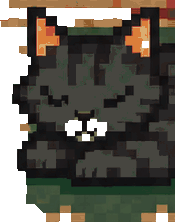
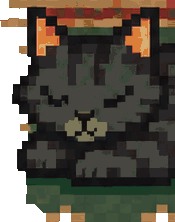
Brighter fuller fire, fix tabby face cut, Cozy title

Changed region(s): [[0.2571, 0.027, 0.7714, 0.1351], [0.3714, 0.5135, 0.6286, 0.6486], [0.8, 0.1622, 0.8571, 0.2162]]

diff --git a/index.html b/index.html
@@ -1,10 +1,10 @@
-<!doctype html><html lang="en"><head><meta charset="utf-8"><meta name="viewport" content="width=device-width,initial-scale=1"><title>Cosy Xmas Cats</title>
+<!doctype html><html lang="en"><head><meta charset="utf-8"><meta name="viewport" content="width=device-width,initial-scale=1"><title>Cozy Xmas Cats</title>
 <style>
 html,body{margin:0;height:100%;background:#0d0a0a;overflow:hidden}
 .s{position:absolute;left:50%;top:50%;transform:translate(-50%,-50%);width:max(100vw,177.78vh);height:max(56.25vw,100vh);background:url(bg.png) 0 0/100% 100%;image-rendering:pixelated;overflow:hidden}
 @media (max-aspect-ratio:4/3){.s{width:min(100vw,177.78vh);height:min(56.25vw,100vh)}}
 .s>*{position:absolute;pointer-events:none;image-rendering:pixelated}
-#fire{left:38.896%;top:33.094%;width:21.983%;height:28.708%;opacity:.92;-webkit-mask-image:linear-gradient(90deg,transparent,#000 12%,#000 88%,transparent);mask-image:linear-gradient(90deg,transparent,#000 12%,#000 88%,transparent)}
+#fire{left:38.896%;top:33.094%;width:21.983%;height:28.708%;opacity:.9;mix-blend-mode:screen;-webkit-mask-image:linear-gradient(90deg,transparent,#000 12%,#000 88%,transparent);mask-image:linear-gradient(90deg,transparent,#000 12%,#000 88%,transparent)}
 .front{z-index:2}.ttail,.tbody,.ktail,.kbody,.khead{z-index:3}
 .front{left:38.896%;top:43.062%;width:21.983%;height:18.740%;transform-origin:50% 100%;animation:none}
 .ttail{left:48.362%;top:62.121%;width:4.666%;height:9.250%;transform-origin:47.1% 0.9%;animation:sway 7s ease-in-out infinite}
@@ -36,9 +36,9 @@ html,body{margin:0;height:100%;background:#0d0a0a;overflow:hidden}
 (function(){const c=document.getElementById('fire'),x=c.getContext('2d'),w=96,h=72,P=[[0,0,0,0]];
 const st=[[40,8,4],[90,16,6],[140,30,8],[180,50,10],[210,80,14],[235,115,20],[248,150,30],[255,185,50],[255,215,90],[255,240,160],[255,252,220]];
 for(let i=1;i<37;i++){const f=i/36*(st.length-1),a=Math.floor(f),b=Math.min(a+1,st.length-1),t=f-a;P.push([0,1,2].map(k=>st[a][k]+(st[b][k]-st[a][k])*t).concat([Math.min(255,i*22)]))}
-const F=new Uint8Array(w*h);for(let i=0;i<w;i++){const d=Math.abs(i-w/2)/(w/2);F[(h-1)*w+i]=d<.85?36:0}
+const F=new Uint8Array(w*h);for(let i=0;i<w;i++){const d=Math.abs(i-w/2)/(w/2);F[(h-1)*w+i]=d<.9?36:30}
 const img=x.createImageData(w,h),g=document.getElementById('glow'),rm=matchMedia('(prefers-reduced-motion: reduce)').matches;let last=0;
-function step(){for(let X=0;X<w;X++)for(let Y=1;Y<h;Y++){const s=Y*w+X,p=F[s];if(!p){F[s-w]=0;continue}const r=Math.random()*3.4|0,d=s-r+1;F[Math.max(0,d-w)]=Math.max(0,p-(r&1)-(Math.random()<.45?1:0))}
+function step(){for(let X=0;X<w;X++)for(let Y=1;Y<h;Y++){const s=Y*w+X,p=F[s];if(!p){F[s-w]=0;continue}const r=Math.random()*3.4|0,d=s-r+1;F[Math.max(0,d-w)]=Math.max(0,p-(r&1)*(Math.random()<.7?1:0))}
 for(let i=0;i<w*h;i++){const q=P[F[i]];img.data.set(q,i*4)}x.putImageData(img,0,0)}
 function loop(t){if(t-last>33){last=t;step();g.style.opacity=.75+Math.random()*.25}requestAnimationFrame(loop)}
 for(let i=0;i<40;i++)step();if(!rm)requestAnimationFrame(loop);else step()})();
